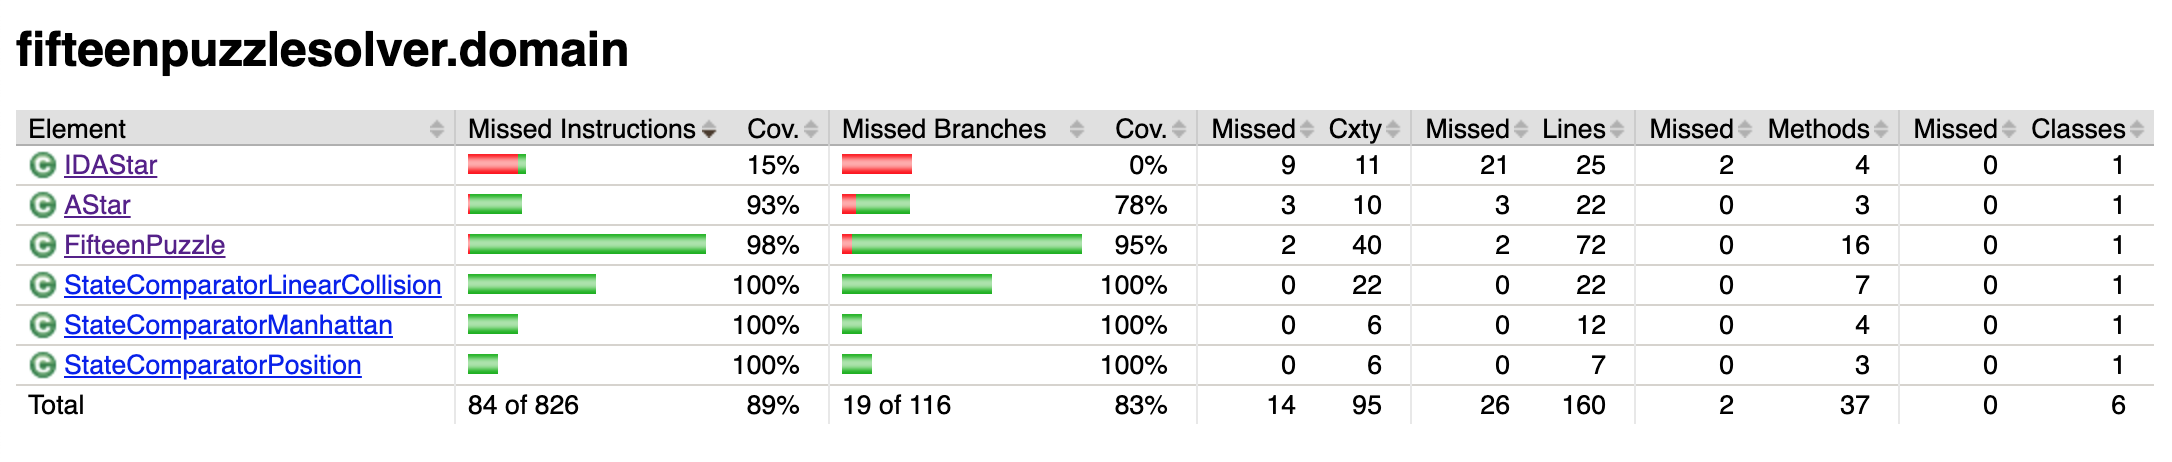
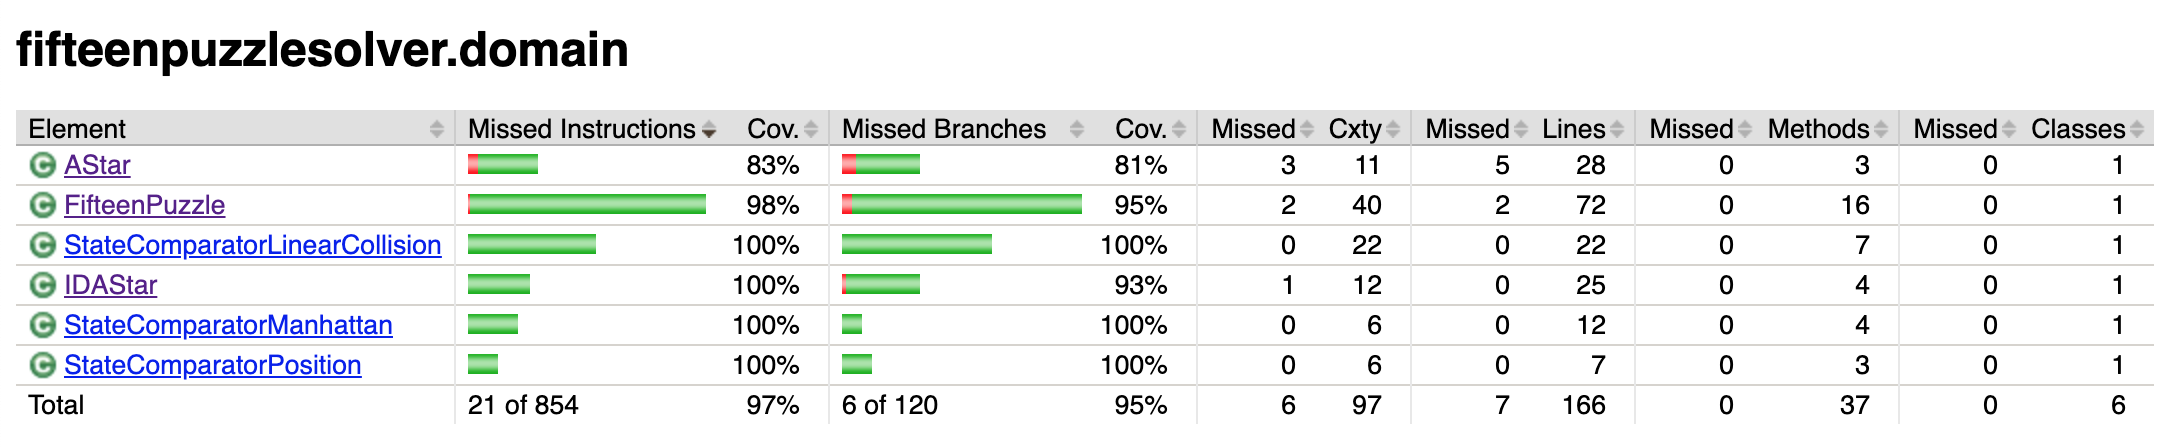
benchmarks and socumentation

Changed region(s): [[0.0, 0.2188, 1.0, 0.9375], [0.0, 0.0625, 0.3099, 0.1562]]

diff --git a/src/main/java/fifteenpuzzlesolver/ui/TextUI.java b/src/main/java/fifteenpuzzlesolver/ui/TextUI.java
@@ -30,6 +30,7 @@ public class TextUI {
      */
     public void printOptions() {
         System.out.println("OPTIONS");
+        System.out.println("p0 - Generate 80 moves puzzle");
         System.out.println("p1 - Generate multiple puzzles");
         System.out.println("p2 - Generate random puzzle");
         System.out.println("p3 - Generate puzzle by moves");
@@ -101,7 +102,14 @@ public class TextUI {
                 continue;
             }
             
-            if (c.equals("p1")) {
+            if (c.equals("p0")) {
+                puzzle = this.service.generate80movesPuzzle();
+                System.out.println("-----------------");
+                System.out.println("GENERATED PUZZLE:");
+                System.out.println(puzzle.toString());
+                System.out.println("-----------------");
+                
+            } else if (c.equals("p1")) {
                 System.out.println("How many puzzles?");
                 int p = Integer.valueOf(this.reader.nextLine());
                 System.out.println("How many moves per puzzle?");
@@ -118,6 +126,7 @@ public class TextUI {
                 System.out.println("-----------------");
                 System.out.println("GENERATED PUZZLE:");
                 System.out.println(puzzle.toString());
+                System.out.println("-----------------");
                 
             } else if (c.equals("p3")) {
                 System.out.println("How many moves");
@@ -126,6 +135,7 @@ public class TextUI {
                 System.out.println("-----------------");
                 System.out.println("GENERATED PUZZLE:");
                 System.out.println(puzzle.toString());
+                System.out.println("-----------------");
                 
             } else if (c.equals("s1")) {
                 long time1 = System.currentTimeMillis();

diff --git a/src/main/java/fifteenpuzzlesolver/service/PuzzleService.java b/src/main/java/fifteenpuzzlesolver/service/PuzzleService.java
@@ -121,7 +121,7 @@ public class PuzzleService {
             Puzzle solved = solver.solve(puzzles.get(i));
             long time2 = System.currentTimeMillis();
             data[0] += time2 - time1;
-            data[1] += solved.getMoves();
+            data[1] += (solved != null) ? solved.getMoves() : 0;
         }
         
         data[0] = data[0] / puzzles.size();
@@ -189,6 +189,15 @@ public class PuzzleService {
      */
     public long[] benchmarkIDAStarLinearCollision(ArrayList<Puzzle> puzzles) {
         return benchmark(puzzles, this.idaStarLinear);
+    }
+    
+    /**
+     * Creates puzzle which shortest path to solution is 80 moves.
+     * 
+     * @return Puzzle with 80 moves to solution
+     */
+    public Puzzle generate80movesPuzzle() {
+        return this.generator.generate80movesPuzzle();
     }
     
     /**

diff --git a/src/main/java/fifteenpuzzlesolver/utils/PuzzleGenerator.java b/src/main/java/fifteenpuzzlesolver/utils/PuzzleGenerator.java
@@ -31,6 +31,21 @@ public class PuzzleGenerator {
     }
     
     /**
+     * generates puzzle that is known to have minimum of 80 moves solution.
+     * 
+     * @return Puzzle that can be solved minimum of 80 moves
+     */
+    public Puzzle generate80movesPuzzle() {
+        int[] puzzleFor80moves = new int[]{
+            0, 12, 9, 13,
+            15, 11, 10, 14,
+            3, 7, 2, 5,
+            4, 8, 6, 1
+        };
+        return new FifteenPuzzle(puzzleFor80moves);
+    }
+    
+    /**
      * Generates one possible children for puzzle in so that it is not yet visited.
      * 
      * @param currentPuzzle Puzzle which child is generated

diff --git a/documentation/tests.md b/documentation/tests.md
@@ -4,7 +4,7 @@ Applications correctness has been tested with automatic unit tests and manually 
 
 ## Test coverage
 
-Overall test coverage as of 22.11.2019:
+Overall test coverage as of 29.11.2019:
 
 ![Coverage](https://github.com/MiguelSombrero/fifteen-puzzle-solver/blob/master/documentation/pics/overall_coverage.png)
 
@@ -16,37 +16,39 @@ These packages contains main method and user interface and has left outside of t
 
 ### fifteenpuzzlesolver.domain
 
-This package contains classes for algorithms and puzzles. Test coverage is ~ 89%, although I'm not happy with the tests of AStar class: I found it hard to test correctness of search method. Also IDAStar class is missing tests.
+This package contains classes for algorithms and puzzles. Test coverage is ~ 95%, although I'm not happy with the tests of AStar and IDAStar classes: I found it hard to test correctness of search() method. There could be also more tests about finding optimal solution.
 
 ![Coverage](https://github.com/MiguelSombrero/fifteen-puzzle-solver/blob/master/documentation/pics/domain_coverage.png)
 
 ### fifteenpuzzlesolver.service
 
-Package contains only PuzzleService class, which provides methods for generating and solving puzzles. Test coverage is ~ 30%. I haven't found good way to test benchmarking methods, which why test coverage remains that low.
+Package contains only PuzzleService class, which provides methods for generating and solving puzzles. Test coverage is ~ 80-100%. I'm using mock classes for mocking PuzzleSolvers, so that I can tests benchmark methods correctly.
 
 ![Coverage](https://github.com/MiguelSombrero/fifteen-puzzle-solver/blob/master/documentation/pics/service_coverage.png)
 
 ### fifteenpuzzlesolver.utils
 
-Package contains data structures and puzzle generator. Test coverage is 100%. With PuzzleGenerator class I mainly tested that the returned puzzles are 'valid' puzzles.
+Package contains data structures and puzzle generator. Test coverage is near 100%. With PuzzleGenerator class I mainly tested that the returned puzzles are 'valid' puzzles.
 
 ![Coverage](https://github.com/MiguelSombrero/fifteen-puzzle-solver/blob/master/documentation/pics/utils_coverage.png)
 
 ## Manual testing
 
+UNDER CONSTRUCTION
 
 ## Performance testing
 
 All performance tests are performed with the following idea:
 
-- Generate set of 20 random puzzles (with generatePuzzleByMoves method) with n moves (n is rising 5, 10, 20, ...)
-- Solve each 20 puzzles set with all the heuristics and calcutate average solving time and average moves for each set and each heuristic
-
-**Notice: after puzzles with 80 moves, benchmarking is done with 10 puzzles sets to save some time**
+- Generate set of n random puzzles (with generatePuzzleByMoves method) with x moves (x is rising 5, 10, 20, ...)
+- Solve each n puzzles set with all the heuristics and calcutate average solving time and average moves for each set and each heuristic
 
 Explanation of table column names:
 
 - Hardness = Number of moves used to generate puzzle
+- n = Number of puzzles solved when calculating averages
+- e = Application crashed due to a OutOfMemory error
+- "-" = Out of patience (solving took too long to wait)
 - Time = Average time for solving puzzle
 - Moves = Average of used moves for solving puzzle
 - A* position = A* algorithm with position based heuristics
@@ -56,38 +58,34 @@ Explanation of table column names:
 
 ### Time
 
-Hardness | A* position | A* manhattan | A* collision | IDA* collision
+Hardness | A* position | A* manhattan | A* collision | IDA* position | IDA* manhattan | IDA* collision
 ---------|-------------|--------------|--------------|---------------
-5  | 0.000s | 0.000s | 0.000s | 0.000s
-10 | 0.000s | 0.000s | 0.000s | 0.001s
-20 | 0.011s | 0.003s | 0.014s | 0.517s
-25 | 0.322s | 0.006s | 0.021s | 0.390s
-30 | 4.404s | 0.037s | 0.059s | 1.107s
-35 | -      | 0.214s | 0.321s | 2.446s
-40 | -      | 0.286s | 0.442s | 4.423s
-50 | -      | 2.644s | 1.723s | 23.513s
-60 | -      | 1.483s | 1.313s | 19.659s
-70 | -      | -      | 3.193s | 65.332s
-80 | -      | -      | 3.391s | 275.171s
-90 | -      | -      | 20.918s | -
-100 | -     | -      | 9.265s | -
-130 | -     | -      | 48.413s | -
+5 (n=50) | 0.000s | 0.000s | 0.000s | 0.000s | 0.000s | 0.000s
+10 (n=50) | 0.000s | 0.000s | 0.000s | 0.000s | 0.00s | 0.000s
+20 (n=50) | 0.011s | 0.002s | 0.007s | 0.068s | 0.036s | 0.048s
+30 (n=20) | e | 0.121s | 0.132s | - | 0.825s | 1.107s
+40 (n=20) | e | 0.181s | 0.260s | - | 7.650s | 4.054s
+50 (n=20) | e | 0.727s | 1.347s | - | - | 34.709s
+60 (n=20) | e | e | 3.218s | - | - | -
+70 (n=20) | e | e | 2.445s | - | - | -
+80 (n=20) | e | e | 2.890s | - | - | -
+90 (n=30) | e | e | 18.880s | - | - | -
+100 (n=20) | e | e | 18.985s | - | - | -
+120 (n=20) | e | e | e | - | - | -
 
 ### Moves
 
-Hardness | A* position | A* manhattan | A* collision | IDA* collision
+Hardness | A* position | A* manhattan | A* collision | IDA* position | IDA* manhattan | IDA* collision
 ---------|-------------|--------------|--------------|---------------
-5  | 4  | 4  | 4  | 4
-10 | 9  | 9  | 9  | 11
-20 | 17 | 19 | 19 | 22
-25 | 21 | 23 | 23 | 25
-30 | 24 | 26 | 27 | 27
-35 | -  | 29 | 30 | 31
-40 | -  | 31 | 31 | 32
-50 | -  | 34 | 35 | 36
-60 | -  | 37 | 37 | 38
-70 | -  | -  | 36 | 37
-80 | -  | -  | 35 | 36
-90 | -  | -  | 42 | -
-100 | - | -  | 41 | -
-130 | - | -  | 43 | -
+5 (n=50) | 4  | 4  | 4  | 4 | 4 | 4
+10 (n=50) | 9  | 9  | 9  | 9 | 10 | 11
+20 (n=50) | 18 | 19 | 19 | 18 | 21 | 22
+30 (n=20) | e | 25 | 24 | - | 26 | 27
+40 (n=20) | e | 30 | 30 | - | 31 | 31
+50 (n=20) | e | 32 | 33 | - | - | 34
+60 (n=20) | e | e | 35 | - | - | -
+70 (n=20) | e | e | 38 | - | - | -
+80 (n=20) | e | e | 38 | - | - | -
+90 (n=30) | e | e | 40 | - | - | -
+100 (n=20) | e | e | 40 | - | - | -
+120 (n=20) | e | e | e | - | - | -

diff --git a/documentation/weekly5.md b/documentation/weekly5.md
@@ -1,4 +1,4 @@
-# Week 4
+# Week 5
 
 - [Hours](https://github.com/MiguelSombrero/fifteen-puzzle-solver/blob/master/documentation/hours.md)
 
@@ -9,17 +9,15 @@
 - Updated documention
 - Optimization for A* and IDA* (pruning)
 
-## Problems
+## Problems & Questions
 
+I'm having hard time for optimizing A* and IDA* algorithms. Only optimization that I've come up with, that (maybe) has improved performance for both algorithms, is to limit search three by moves. Since it is proved in this [article](http://www.iro.umontreal.ca/~gendron/Pisa/References/BB/Brungger99.pdf), that an optimal solution for 15-puzzle can always be found within 80 moves, search tree can be bounded to 80 moves maximum.
 
-## Questions & comments
-
-I'm having hard time for optimizing A* and IDA* algorithms. Only major optimization that I've come up with, that has improved performance for both algorithms, is to limit search three by moves. Since it is proved in this [article](http://www.iro.umontreal.ca/~gendron/Pisa/References/BB/Brungger99.pdf), that an optimal solution for 15-puzzle can always be found within 80 moves, search tree can be bounded to 80 moves maximum.
-
-I'm not happy about this kind of optimizations, since they are context relational; it works exactly with the given problem (15-puzzles), but are not generalizable for n-puzzles. In this point though, I'm happy with every possible optimization that works :)
+A* algorithm has memory usage problem: algorithm traverses too many game states when searching solution.
 
 ## Next Week
 
 - Peer review #2
+- Documentation
 - More optimization for A* and IDA*
 - Increasing test coverage

diff --git a/documentation/guide.md b/documentation/guide.md
@@ -1,0 +1,26 @@
+# User manual
+
+With 15-puzzle-solver you can generate and solve 15-puzzles with A* and IDA* algorithms using 3 different heuristics. On start up, application prints available options, which should be self-explanatory - but here is a little synopsis:
+
+- p0 = Generates one puzzle which minimun solution is known to be 80 moves
+- p1 = Generates n puzzles according to user input. Can be user for benchmarking (b1-b6) puzzles
+- p2 = Generates one puzzle by changing n randomly chosen tiles. Can be used for solving (s1-s6) puzzle
+- p3 = Generates one puzzle by moving n times backwards from solved state. Can be used for solving (s1-s6) puzzle
+
+Options s? solves puzzle with given algorithm and given heuristic. Prints solved puzzle, time and moves taken. Algorithms and heuristics are:
+
+- s1 = A* with position based heuristics
+- s2 = A* with manhattan heuristics
+- s3 = A* with manhattan + linear collision heuristics
+- s4 = IDA* with position based heuristics
+- s5 = IDA* with manhattan heuristics
+- s6 = A* with manhattan + linear collision heuristics
+
+Options b? solves n puzzles with given algorithm and given heuristic. Prints solved puzzle, average time and average moves taken. Algorithms and heuristics are:
+
+- b1 = A* with position based heuristics
+- b2 = A* with manhattan heuristics
+- b3 = A* with manhattan + linear collision heuristics
+- b4 = IDA* with position based heuristics
+- b5 = IDA* with manhattan heuristics
+- b6 = A* with manhattan + linear collision heuristics

diff --git a/documentation/implementation.md b/documentation/implementation.md
@@ -4,9 +4,9 @@ I implemented two different algorithms for solving 15-puzzles: A* and IDA* algor
 
 ## Project structure
 
-I divided application into four packages: *ui* for user interface, *service* for providing methods for solving and generating puzzles, *domain* for puzzles, puzzle solvers and heuristics and *utils* for data structures and puzzle generator. 
+I divided application into four (five if you count main package) packages: *ui* for user interface, *service* for providing methods for solving and generating puzzles, *domain* for puzzles, puzzle solvers and heuristics and *utils* for data structures and puzzle generator. 
 
-[structure](https://github.com/MiguelSombrero/fifteen-puzzle-solver/blob/master/documentation/pics/structure.jpg)
+![structure](https://github.com/MiguelSombrero/fifteen-puzzle-solver/blob/master/documentation/pics/structure.jpg)
 
 ## Time-Complexity
 

diff --git a/documentation/hours.md b/documentation/hours.md
@@ -21,7 +21,8 @@ Day | Hours
 22.11. | 2
 26.11. | 5
 27.11. | 5
-Total | 73
+29.11. | 3
+Total | 76
 
 ## Week 5
 
@@ -29,6 +30,7 @@ Day | Hours | Explanation
 ----|-------|------------
 26.11. | 5 | Peer review, refactoring
 27.11. | 5 | Optimization, some tests, documentation
+29.11. | 3 | Bencmarking and documentation
 
 ## Week 4
 
